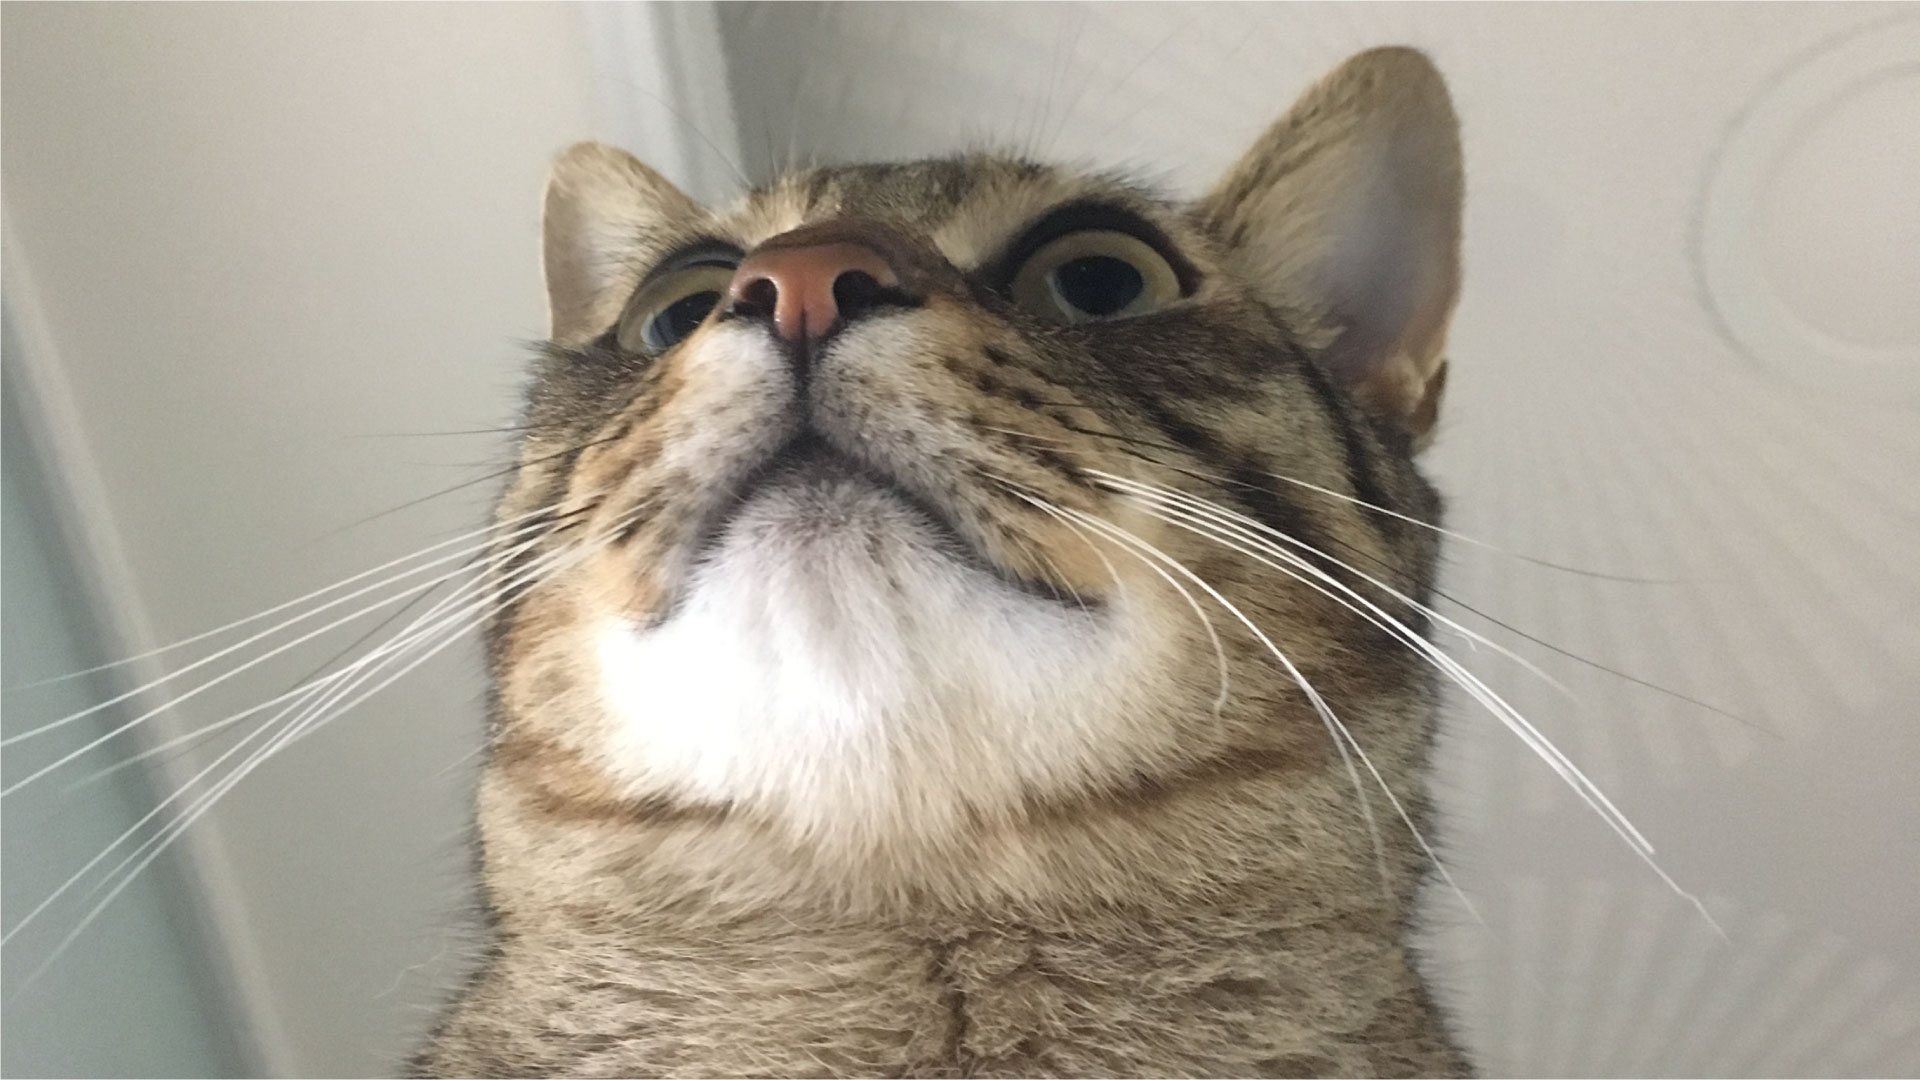
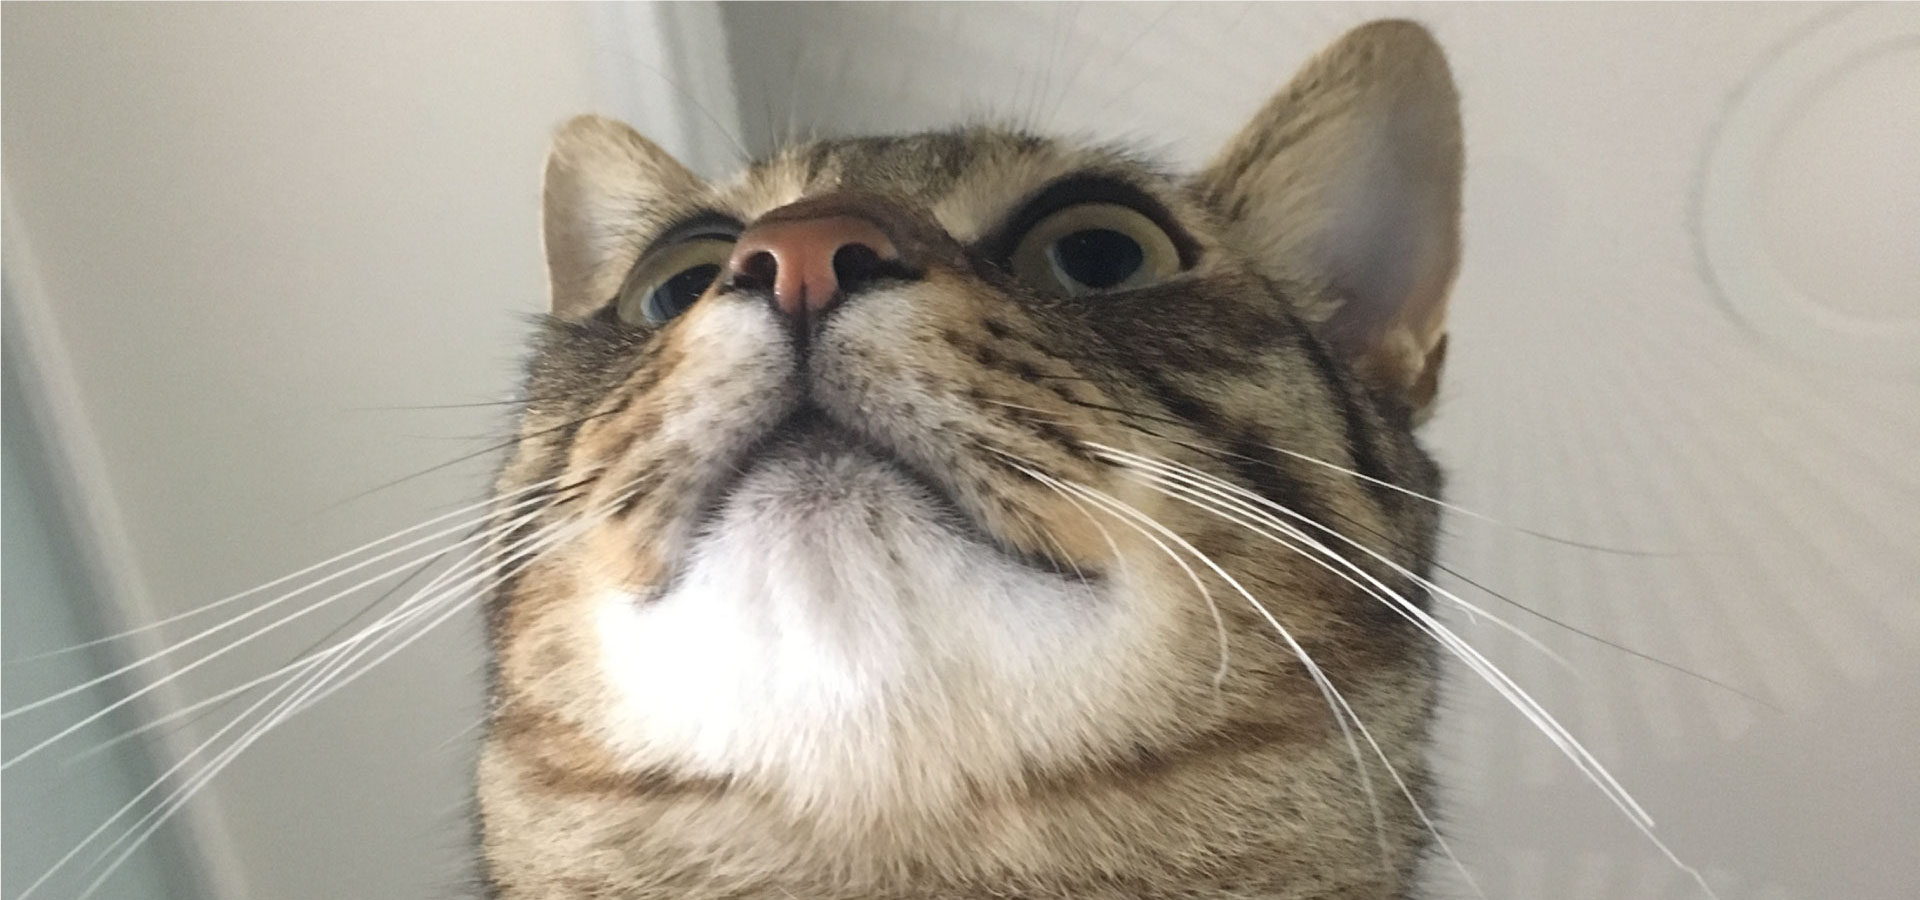
create footer.js and footer.module.css

diff --git a/src/CSS/three.module.css b/src/CSS/three.module.css
@@ -1,18 +1,18 @@
 #three {
     position: relative;
-    width: 100vw;
 }
 
 .threeImg {
     position: absolute;
-    width: 120rem;
+    width: 100vw;
     height: 56.25rem;
     background-image: url('../img/img_5.jpg');
+    background-size: 100% 100%;
+    background-repeat: no-repeat;
 }
 
 .imgCover {
-    position: absolute;
-    width: 120rem;
+    width: 100vw;
     height: 56.25rem;
     background-color: #F2E9D899;
     opacity: 0.6;

diff --git a/src/App.js b/src/App.js
@@ -5,6 +5,7 @@ import Header from './Components/header';
 import First from './Components/first';
 import Second from './Components/second';
 import Three from './Components/three';
+import Footer from './Components/footer';
 
 function App() {
   return (
@@ -13,6 +14,7 @@ function App() {
     <First/>
     <Second/>
     <Three/>
+    <Footer/>
     </>
   );
 }

diff --git a/src/Components/footer.js b/src/Components/footer.js
@@ -1,0 +1,9 @@
+import style from '../CSS/footer.module.css'
+
+function Footer() {
+    return(
+        <section id={`${style.footer}`}></section>
+    )
+}
+
+export default Footer;

diff --git a/src/CSS/style.css b/src/CSS/style.css
@@ -5,8 +5,3 @@
     padding: 0;
     font-family: 'Spoqa Han Sans Neo', 'sans-serif';
 }
-
-/* html {
-    width: 100%;
-    background-color: red;
-} */

diff --git a/src/CSS/footer.module.css b/src/CSS/footer.module.css
@@ -1,0 +1,4 @@
+#footer {
+    height: 10rem;
+    background-color: palevioletred;
+}
